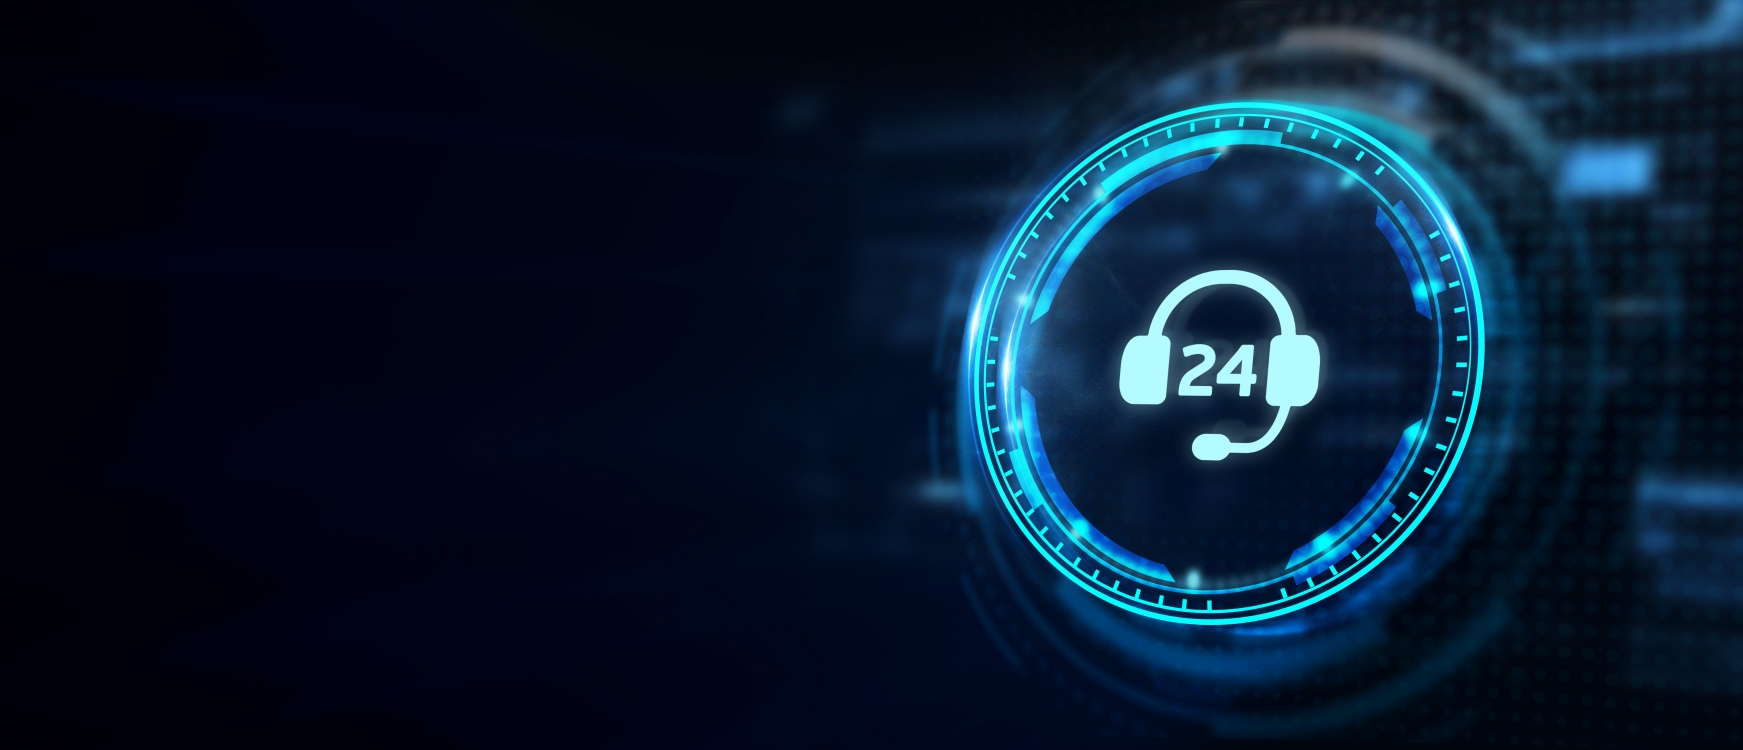
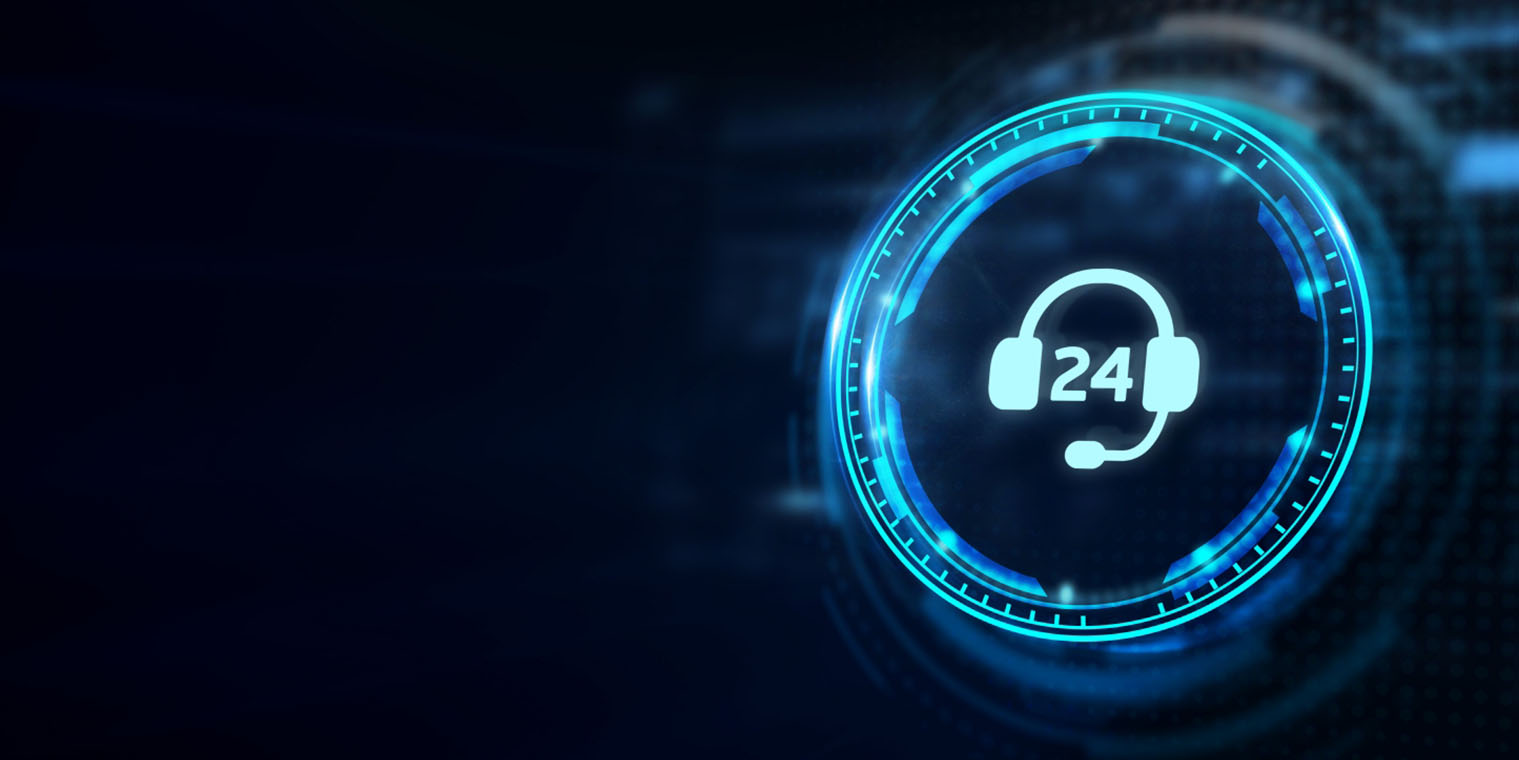
sahil slider images

Changed region(s): [[0.4951, 0.0, 1.0, 1.0], [0.9901, 0.8587, 1.0, 0.8893]]

diff --git a/css/style.css b/css/style.css
@@ -16195,7 +16195,7 @@ footer {
   .site-footer.style-3 .footer-top {
     background: transparent; }
     .slider-image {height:90vh; display: flex;align-items: center;text-align: left;}
-    .slider-image1 {height:90vh; display: flex;align-items: center;text-align: left;}
+    .slider-image1 {height:100vh; display: flex;align-items: center;text-align: left;}
     @media only screen and (max-width: 767px) {
     .slider-image1{
       height: 55vh;
@@ -16631,6 +16631,7 @@ flex: 0 0 100%;
 }
 p.leader_leaderpara__2uIkn {
   font-size: 16px!important;
+  padding: 0px 10px;
 }
 p .second_headingtext___BOCw {
   font-size: 36px!important;
@@ -17006,6 +17007,7 @@ display: none;
   float: right;
   padding: 10px 0px;
   color: #fff;
+  padding: 0px 15px;
   font-size: 18px;
   font-family: sans-serif!important;
   font-weight: 300;
@@ -17108,6 +17110,7 @@ padding: 0px 13px;
 
 .slidertextblock h2{
   font-family: sans-serif!important;
+ 
 }
 .slick-dots{
   padding-top: -45px!important;
@@ -17123,6 +17126,12 @@ padding: 0px 13px;
    }
    .second_dark__221aH.container-fluid {
     padding: 0px;
+}
+.slidertextblock h2{
+ padding: 0px 15px;
+}
+.slidertextblock p{
+  padding: 0px 15px;
 }
 }
 

diff --git a/element/home-slider.js b/element/home-slider.js
@@ -8,7 +8,7 @@ function HomeSlider() {
             <Carousel className="homeSlidr" autoPlay={true} infiniteLoop={true} interval={5000}>
                 <div className="slider-image1"
                     style={{
-                        backgroundImage: "url('/images/sliderimages/butterfly.jpg')",
+                        backgroundImage: "url('/images/sliderimages/butterfly1.jpg')",
                         width: "100%",
 
                         backgroundRepeat: "no-repeat",
@@ -75,7 +75,7 @@ function HomeSlider() {
 
                 </div>
                 <div className="slider-image1" style={{
-                    backgroundImage: "url('/images/sliderimages/eye.jpg')",
+                    backgroundImage: "url('/images/sliderimages/EYE (1).jpg')",
                     width: "100%",
 
                     backgroundRepeat: "no-repeat",
